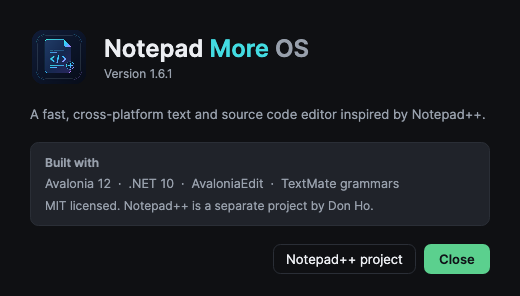
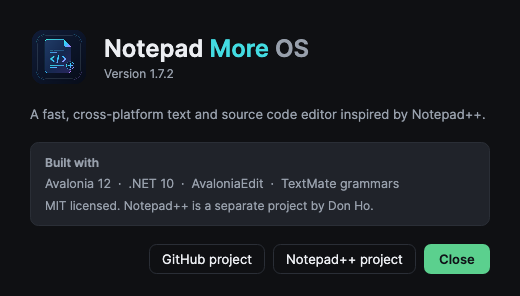
About: add a button to the project repository
Adds a localized GitHub project button to the About dialog, next to the
Notepad++ project link. Bumps the version to 1.7.2.

Changed region(s): [[0.3077, 0.8209, 0.4923, 0.9426], [0.3077, 0.2128, 0.3385, 0.2736]]

diff --git a/src/NotepadMoreOS/Views/Dialogs/AboutWindow.axaml.cs b/src/NotepadMoreOS/Views/Dialogs/AboutWindow.axaml.cs
@@ -8,6 +8,7 @@ namespace NotepadMoreOS.Views.Dialogs;
 public partial class AboutWindow : Window
 {
     private const string ProjectUrl = "https://github.com/notepad-plus-plus/notepad-plus-plus";
+    private const string RepositoryUrl = "https://github.com/Agarni/NotepadMoreOS";
 
     public AboutWindow()
     {
@@ -21,11 +22,15 @@ public partial class AboutWindow : Window
 
     private void OnCloseClick(object? sender, RoutedEventArgs e) => Close();
 
-    private async void OnProjectClick(object? sender, RoutedEventArgs e)
+    private async void OnRepositoryClick(object? sender, RoutedEventArgs e) => await OpenAsync(RepositoryUrl);
+
+    private async void OnProjectClick(object? sender, RoutedEventArgs e) => await OpenAsync(ProjectUrl);
+
+    private async Task OpenAsync(string url)
     {
         if (TopLevel.GetTopLevel(this)?.Launcher is { } launcher)
         {
-            await launcher.LaunchUriAsync(new Uri(ProjectUrl));
+            await launcher.LaunchUriAsync(new Uri(url));
         }
     }
 }

diff --git a/src/NotepadMoreOS/Resources/Strings.g.cs b/src/NotepadMoreOS/Resources/Strings.g.cs
@@ -301,4 +301,5 @@ public static class Strings
     public static string Status_Length => Get(nameof(Status_Length));
     public static string Tabs_ScrollLeft => Get(nameof(Tabs_ScrollLeft));
     public static string Tabs_ScrollRight => Get(nameof(Tabs_ScrollRight));
+    public static string About_GitHubButton => Get(nameof(About_GitHubButton));
 }

diff --git a/AGENTS.md b/AGENTS.md
@@ -4,7 +4,7 @@ Context for AI agents and developers working on **NotepadMoreOS**.
 
 ## Project
 
-A cross-platform Notepad++-inspired text/code editor built with **Avalonia 12.1.6**, **.NET 10**, **AvaloniaEdit 12**, **TextMateSharp** and **CommunityToolkit.Mvvm**. Current version: **1.7.1** (macOS DMG, Windows Inno Setup installer and Linux deb/tarball, English and Brazilian Portuguese UI, arrow navigation for overflowing tabs, selectable tab styles without hover fill, extended find search with escapes, live find match count, theme previews, configurable accent color palette, modernized brand icon, named sessions with unsaved drafts and prompt-free switching, tab context menu, crash recovery, encoding reopen, native macOS menu + custom title bar, external change detection, modern UI).
+A cross-platform Notepad++-inspired text/code editor built with **Avalonia 12.1.6**, **.NET 10**, **AvaloniaEdit 12**, **TextMateSharp** and **CommunityToolkit.Mvvm**. Current version: **1.7.2** (About dialog links to this repository, macOS DMG, Windows Inno Setup installer and Linux deb/tarball, English and Brazilian Portuguese UI, arrow navigation for overflowing tabs, selectable tab styles without hover fill, extended find search with escapes, live find match count, theme previews, configurable accent color palette, modernized brand icon, named sessions with unsaved drafts and prompt-free switching, tab context menu, crash recovery, encoding reopen, native macOS menu + custom title bar, external change detection, modern UI).
 
 - UI languages: English and Brazilian Portuguese, resolved from the persisted language preference or the system culture.
 - Documentation language: Portuguese (with this file in English for agents).

diff --git a/README.md b/README.md
@@ -2,7 +2,7 @@
 
 [![Build and test](https://github.com/Agarni/NotepadMoreOS/actions/workflows/build.yml/badge.svg)](https://github.com/Agarni/NotepadMoreOS/actions/workflows/build.yml)
 
-Um editor de texto e código multiplataforma inspirado no **Notepad++**, construído com **Avalonia 12**, **.NET 10** e **AvaloniaEdit**. Versão atual: **1.7.1**.
+Um editor de texto e código multiplataforma inspirado no **Notepad++**, construído com **Avalonia 12**, **.NET 10** e **AvaloniaEdit**. Versão atual: **1.7.2**.
 
 ## Download
 

diff --git a/CHANGELOG.md b/CHANGELOG.md
@@ -2,6 +2,12 @@
 
 Todas as mudanças relevantes do NotepadMoreOS são registradas aqui.
 
+## [1.7.2] — 2026-11-21
+
+### Adicionado
+
+- Botão **GitHub project / Projeto no GitHub** na janela About, abrindo https://github.com/Agarni/NotepadMoreOS. O botão do Notepad++ continua ao lado, separando claramente o nosso projeto do editor que o inspirou.
+
 ## [1.7.1] — 2026-11-21
 
 ### Adicionado

diff --git a/docs/ROADMAP.md b/docs/ROADMAP.md
@@ -2,7 +2,7 @@
 
 O roadmap é uma prioridade, não uma promessa. Itens podem ser reordenados conforme feedback.
 
-## Estado atual (1.7.1)
+## Estado atual (1.7.2)
 
 - Editor multiaba com TextMate e 63 linguagens
 - Busca e substituição com regex, palavra inteira, match case, escopo de seleção e painel de resultados
